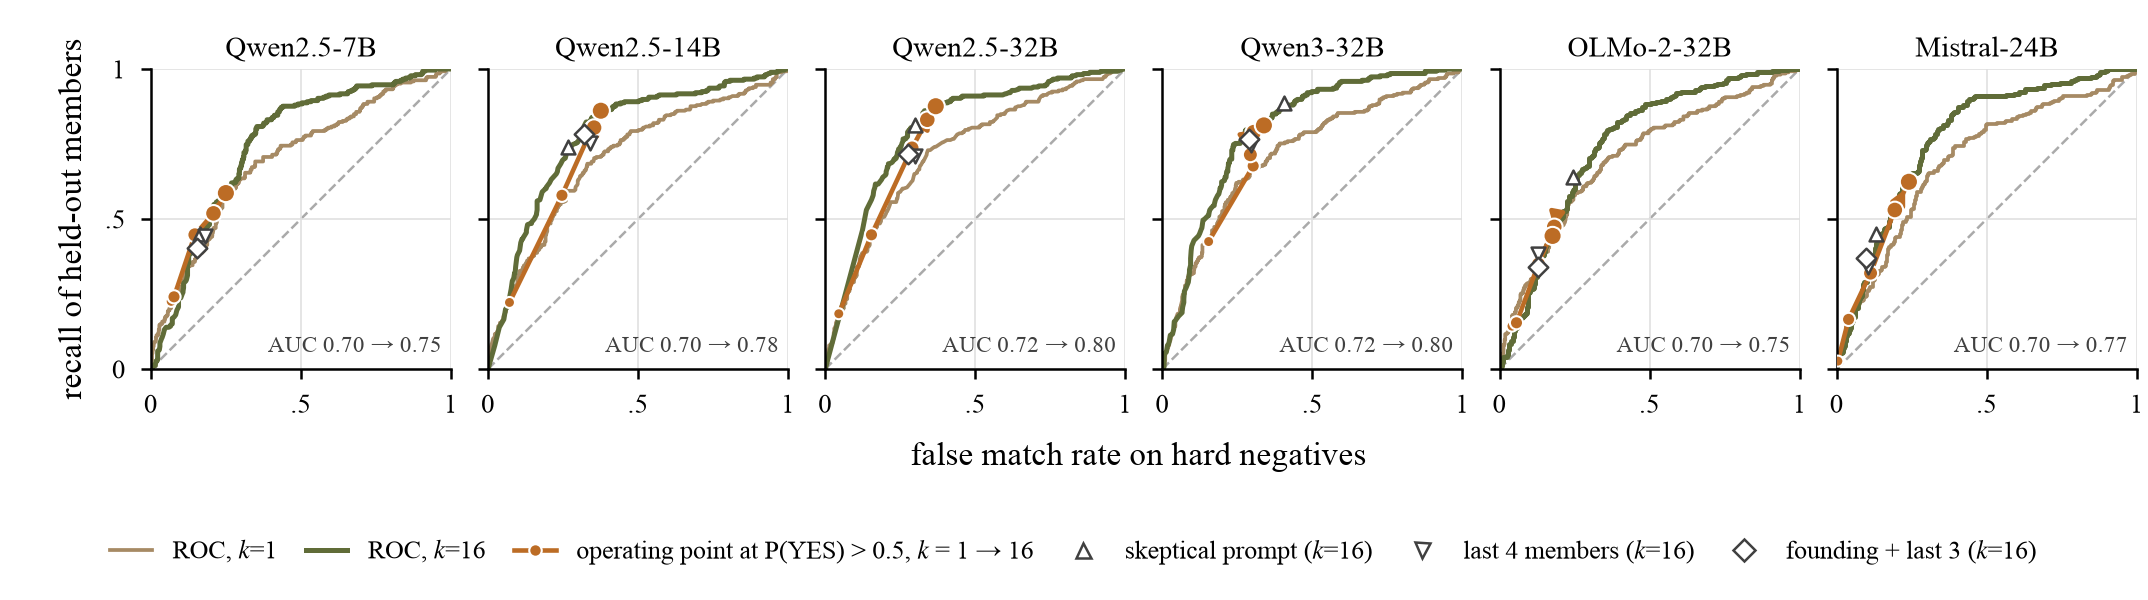
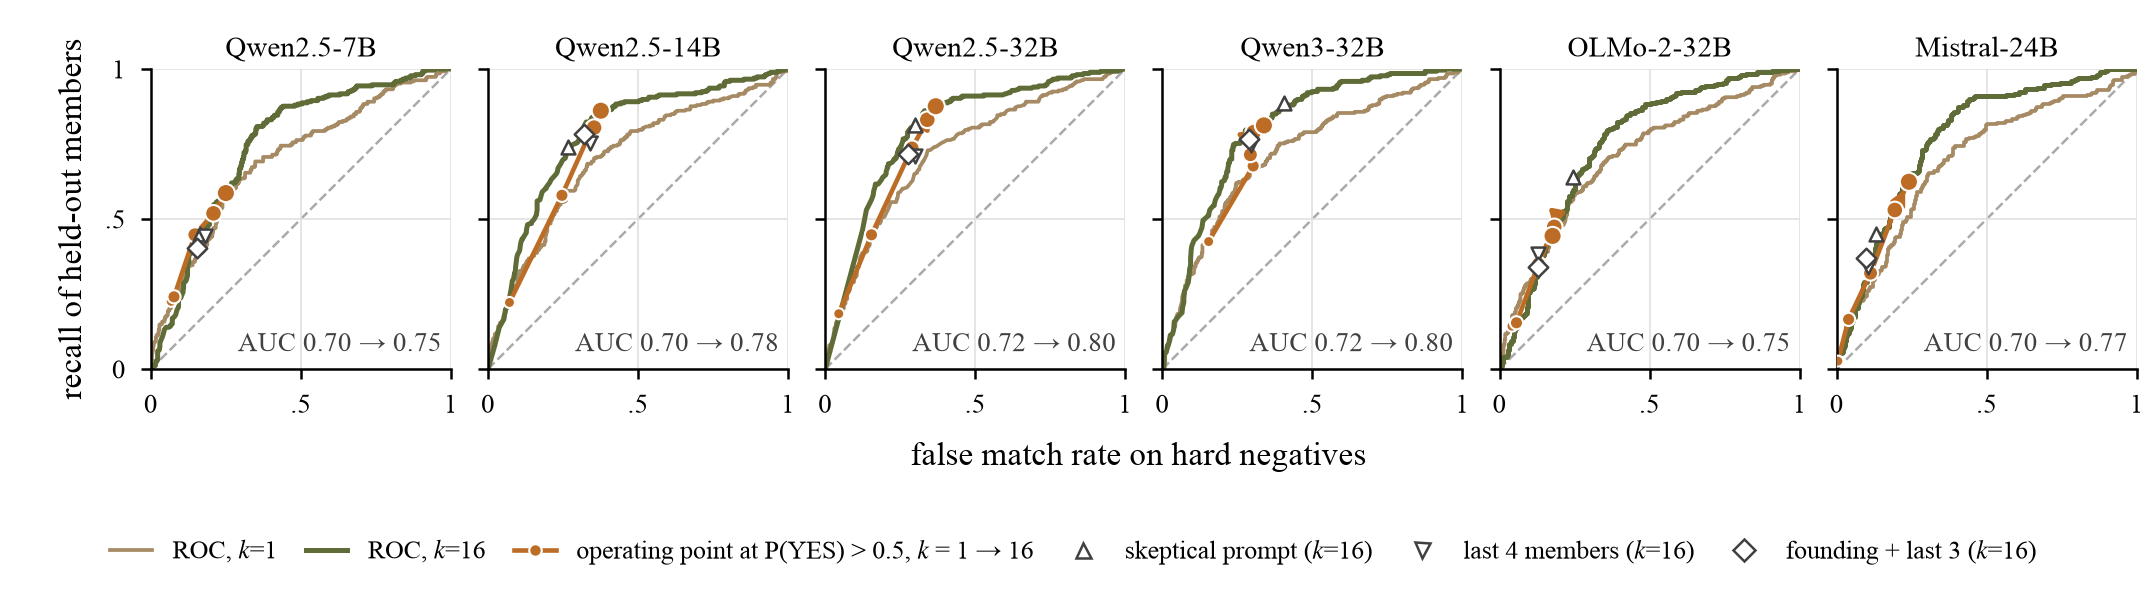
figures: enlarge small annotations to 6.3-6.5 pt (pre-submission review)

diff --git a/scripts/build_assets.py b/scripts/build_assets.py
@@ -641,7 +641,7 @@ for ax, m in zip(axes, MODELS):
         r = MI[(MI.model == m) & (MI.variant == v)].iloc[0]
         ax.scatter(r.fmr, r.recall, marker=mk, s=11, facecolors="white", edgecolors="0.25", linewidths=.6, zorder=4)
     a1, a16 = c.auc.iloc[0], c.auc.iloc[-1]
-    ax.text(.97, .04, f"AUC {a1:.2f} → {a16:.2f}", transform=ax.transAxes, ha="right", va="bottom", fontsize=5.6, color="0.25")
+    ax.text(.97, .04, f"AUC {a1:.2f} → {a16:.2f}", transform=ax.transAxes, ha="right", va="bottom", fontsize=6.5, color="0.25")
     ax.set_xlim(0, 1); ax.set_ylim(0, 1); ax.set_aspect("equal"); ax.set_xticks([0, .5, 1]); ax.set_yticks([0, .5, 1])
     ax.set_xticklabels(["0", ".5", "1"]); ax.set_title(SHORT[m], fontsize=7, pad=3)
     ax.grid(color=GRIDC, lw=.4); ax.set_axisbelow(True)
@@ -663,11 +663,11 @@ ends = []
 for m in MODELS:
     c = C[C.model == m].sort_values("k"); ex = 100 * (c.fmr - c.fmr_or)
     ax.plot(c.k, ex, marker=MKM[m], ls="-", color=COL[m], ms=2.6, lw=1.1, zorder=2); ends.append(ex.iloc[-1])
-for m, v in zip(MODELS, repel(ends, 2.4)):
-    ax.text(17.5, v, SHORT[m], fontsize=5.6, color=COL[m], ha="left", va="center")
+for m, v in zip(MODELS, repel(ends, 2.7)):
+    ax.text(17.5, v, SHORT[m], fontsize=6.3, color=COL[m], ha="left", va="center")
 ax.set_xscale("log", base=2); ax.set_xticks(KS); ax.set_xticklabels([str(k) for k in KS]); ax.minorticks_off()
 ax.set_xlim(0.85, 40); ax.set_ylim(-8, 25); ax.set_xlabel("profile size $k$"); ax.set_ylabel("profile minus OR null (points)")
-ax.text(0.03, 0.97, "above 0: the profile accepts negatives\nthat no single member supports", transform=ax.transAxes, fontsize=5.6, color="0.4", va="top")
+ax.text(0.03, 0.97, "above 0: the profile accepts negatives\nthat no single member supports", transform=ax.transAxes, fontsize=6.3, color="0.4", va="top")
 ax.set_title("Excess over the OR null", loc="left"); letter(ax, "a")
 def slope(ax, L, R, labels, gap, lab_l, lab_r, fmt="{:.0f}", ylim=None, delta=False):
     for i in range(len(L)):
@@ -676,21 +676,21 @@ def slope(ax, L, R, labels, gap, lab_l, lab_r, fmt="{:.0f}", ylim=None, delta=Fa
         ax.scatter([0, 1], [L[i], R[i]], color=colr, s=16, zorder=3, edgecolors="white", linewidths=.6)
     for i, v in enumerate(repel(R, gap)):
         txt = f"{fmt.format(R[i])}  {labels[i]}" + (f" ({R[i] - L[i]:+.0f})" if delta else "")
-        ax.text(1.08, v, txt, fontsize=5.6, color=UP if R[i] > L[i] else DOWN, ha="left", va="center")
+        ax.text(1.08, v, txt, fontsize=6.3, color=UP if R[i] > L[i] else DOWN, ha="left", va="center")
     for i, v in enumerate(repel(L, gap)):
-        ax.text(-0.08, v, fmt.format(L[i]), fontsize=5.6, color="0.35", ha="right", va="center")
+        ax.text(-0.08, v, fmt.format(L[i]), fontsize=6.3, color="0.35", ha="right", va="center")
     ax.set_xticks([0, 1]); ax.set_xticklabels([lab_l, lab_r], fontsize=6.3); ax.set_xlim(-0.35, 2.15)
     if ylim: ax.set_ylim(*ylim)
     ax.spines["bottom"].set_visible(False); ax.tick_params(axis="x", length=0)
     ax.grid(axis="y", color=GRIDC, lw=.5); ax.set_axisbelow(True)
 # (b) confident false matches
 cf = CF.set_index("model").loc[MODELS]
-slope(axes[1], 100 * cf.best_single16.values, 100 * cf.profile16.values, [SHORT[m] for m in MODELS], 2.6,
+slope(axes[1], 100 * cf.best_single16.values, 100 * cf.profile16.values, [SHORT[m] for m in MODELS], 2.9,
       "most similar\nmember", "whole\nprofile", ylim=(-1.5, 35))
 axes[1].set_ylabel("% of hard negatives"); axes[1].set_title("P(YES) > 0.99 at $k$=16", loc="left"); letter(axes[1], "b")
 # (c) contamination by one false merge
 c4 = CO[CO.k == 4].set_index("model").loc[MODELS]
-slope(axes[2], 100 * c4.clean.values, 100 * c4.contaminated.values, [SHORT[m] for m in MODELS], 3.6,
+slope(axes[2], 100 * c4.clean.values, 100 * c4.contaminated.values, [SHORT[m] for m in MODELS], 4.0,
       "clean:\n4 verified", "contaminated:\n3 verified + intruder", ylim=(0, 72), delta=True)
 axes[2].set_ylabel("% of second records accepted"); axes[2].set_title("One false merge ($k$=4)", loc="left"); letter(axes[2], "c")
 fig.tight_layout(w_pad=1.0); fig.savefig(f"{FIG}/fig2_mitigation_snowball.pdf"); fig.savefig(f"{FIG}/fig2_mitigation_snowball.png", dpi=300); plt.close(fig)
